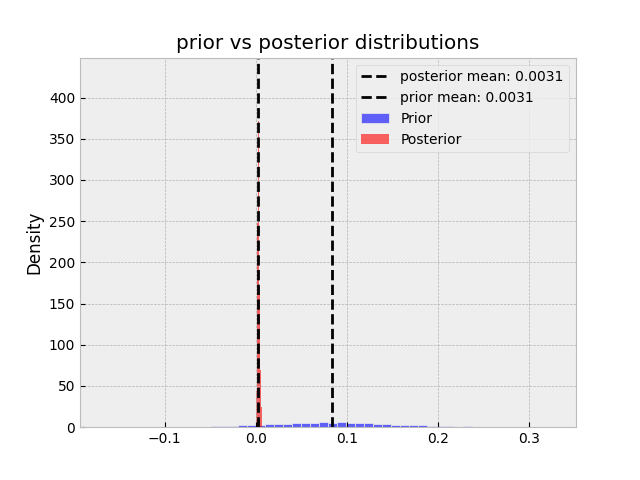
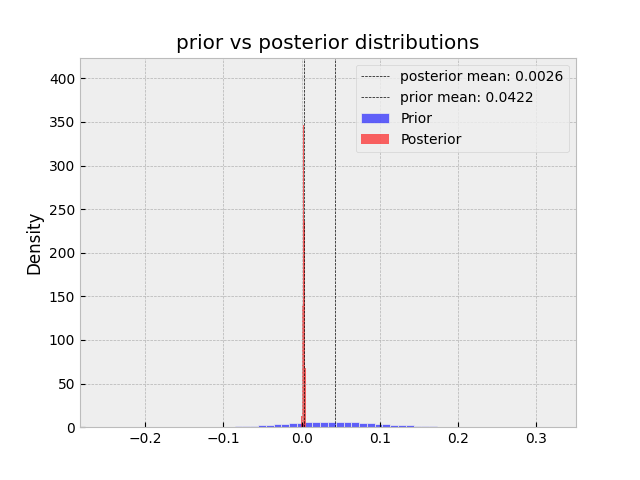
add plots for graph

diff --git a/linear_algo_run.py b/linear_algo_run.py
@@ -20,7 +20,7 @@ from models import bayes_linreg_model
 plt.style.use('bmh')
 
 df = pd.read_csv('data/data.csv', sep=';', index_col=0)
-df = df[['date','year','month','week','day_of_week','dayofyear','media_cost_adstock','jackpot_size','sales']]
+df = df[['date','year','month','week','day_of_week','dayofyear','media_cost','jackpot_size','sales']]
 
 print("data head")
 print(df.head())
@@ -37,19 +37,19 @@ rng_key = jax.random.PRNGKey(0)
 print("")
 print("Starting the MCMC")
 print("-----------------")
-mcmc.run(jax.random.PRNGKey(0),jackpot_category=jnp.array(df_train['jackpot_size']),spends=jnp.array(df_train['media_cost_adstock']),sales=jnp.array(df_train['sales']),dayofyear=jnp.array(df_train['dayofyear']),index=jnp.array(df_train.index))
+mcmc.run(jax.random.PRNGKey(0),jackpot_category=jnp.array(df_train['jackpot_size']),spends=jnp.array(df_train['media_cost']),sales=jnp.array(df_train['sales']),dayofyear=jnp.array(df_train['dayofyear']),index=jnp.array(df_train.index))
 linreg_sample=mcmc.get_samples()
 mcmc.print_summary(exclude_deterministic=True)
 # Do some forecasting
 sales_test = df_test["sales"].values
 #TODO: Check again the predictions -dict mean and sales, what is the shapes of those?
 predictive = Predictive(bayes_linreg_model, linreg_sample)
-predictions = predictive(jax.random.PRNGKey(1),jackpot_category=jnp.array(df_test['jackpot_size']),spends=jnp.array(df_test['media_cost_adstock']),sales=jnp.array(df_test['sales']),dayofyear=jnp.array(df_test['dayofyear']),index=jnp.array(df_test.index))
+predictions = predictive(jax.random.PRNGKey(1),jackpot_category=jnp.array(df_test['jackpot_size']),spends=jnp.array(df_test['media_cost']),sales=jnp.array(df_test['sales']),dayofyear=jnp.array(df_test['dayofyear']),index=jnp.array(df_test.index))
 
 y_pred = jnp.mean(predictions["sales"], axis=0)
 
-print("mean:" +str(jnp.mean(df_test['media_cost_adstock'].values)/1000))
-print("std:" +str(jnp.std(df_test['media_cost_adstock'].values)/1000))
+print("mean:" +str(jnp.mean(df_test['media_cost'].values)/1000))
+print("std:" +str(jnp.std(df_test['media_cost'].values)/1000))
 
 
 absolute_errors = jnp.abs(y_pred - sales_test)
@@ -101,11 +101,11 @@ plt.savefig("results/posterior_of_jackpot_coef.png")
 
 # Plot prior vs posterior plots in the same histogram
 fig, ax = plt.subplots()
-coef_prior= np.random.normal(jnp.mean(jnp.array(df_test['media_cost_adstock'].values)/1000), jnp.std(jnp.array(df_test['media_cost_adstock'].values)/500), coef_spends.shape[0])
+coef_prior= np.random.normal(jnp.mean(jnp.array(df_test['media_cost'].values)/1000), jnp.std(jnp.array(df_test['media_cost'].values)/500), 200_000)
 sns.histplot(data=coef_prior, stat="density",color='blue', label='Prior', alpha=0.6,binwidth=1e-2)
 sns.histplot(data=coef_spends, stat="density",color='red', label = 'Posterior', alpha=0.6, binwidth=1e-4)
-ax.axvline(jnp.mean(coef_spends), color='black', linestyle='--', label=f'posterior mean: {jnp.mean(coef_spends):.4f}')
-ax.axvline(jnp.mean(jnp.array(df_test['media_cost_adstock'].values)/1000), color='black', linestyle='--', label=f'prior mean: {jnp.mean(coef_spends):.4f}')
+ax.axvline(jnp.mean(coef_spends), color='black', linestyle='--', label=f'posterior mean: {jnp.mean(coef_spends):.4f}', linewidth=0.5)
+ax.axvline(jnp.mean(coef_prior), color='black', linestyle='--', label=f'prior mean: {jnp.mean(coef_prior):.4f}', linewidth = 0.5)
 ax.legend(loc='best')
 ax.set(title = 'prior vs posterior distributions')
 plt.savefig("results/prior_vs_posterior_of_media_coef.png")

diff --git a/confounder_model.py b/confounder_model.py
@@ -1,0 +1,60 @@
+import pandas as pd
+import numpy as np
+import pandas as pd
+import seaborn as sns
+import matplotlib.pyplot as plt
+import jax.numpy as jnp
+import os
+import jax
+from configs import config
+from dowhy import CausalModel
+import numpyro
+devices = config.devices
+
+
+causal_graph = """
+graph [
+    directed 1
+
+    node [
+    id seasonality
+    label "seasonality
+    ]
+    node [
+    id trend
+    label "trend"
+    ]
+    node [
+    id jackpot_size
+    label "jackpot size"
+    ]
+    node [
+    id media_cost
+    label "media cost"
+    ]
+    node [
+    id sales
+    label "sales"
+    ]
+    edge [
+    source jackpot size
+    target media cost
+    ]
+    edge [
+    source media cost
+    target sales
+    ]
+    edge [
+    source trend
+    target sales
+    ]
+    edge [
+    source seasonality
+    target sales
+    ]
+    edge [
+    source jackpot size
+    target sales
+    ]
+]
+"""

diff --git a/models/linalgo_model.py b/models/linalgo_model.py
@@ -47,10 +47,10 @@ def bayes_linreg_model(jackpot_category,spends, sales, dayofyear, index):
 
     # Seasonality (using day_of_year as a categorical variable)
     n_days = 366  # Maximum possible days in a year
-    with plate("day_of_year_plate", n_days):
-        day_of_year_effect = numpyro.sample("day_of_year_effect", dist.Normal(0, 1))  # Seasonality effect for each day
-
-    seasonality = day_of_year_effect[dayofyear -1]  # dayofyear is 1-indexed, so we adjust
+    with plate("day_of_year_plate", n_days):  # Plate goes outside
+        day_of_year_effect = numpyro.sample("day_of_year_effect", dist.Normal(0, 1))
+    seasonality = day_of_year_effect[dayofyear - 1]
+     # dayofyear is 1-indexed, so we adjust
 
     # Coefficiency spends prior
     coef_spends = numpyro.sample('coef_spends', dist.Normal(jnp.mean(spends)/1000,jnp.std(spends)/500))

diff --git a/graphplot.py b/graphplot.py
@@ -1,0 +1,17 @@
+import graphviz as gr
+import matplotlib.pyplot as plt
+
+
+g = gr.Digraph()
+g.node(name="seasonality",color= "gainsboro",  label="seasonality", style="filled")
+g.node(name="trend", color= "gainsboro", label="trend", style='filled')
+g.node(name="media", label="media", color="forestgreen", style="filled")
+g.node(name="jackpot", label="jackpot", color="firebrick3", style="filled")
+g.node(name="sales", color= "gold",label="sales", style="filled")
+g.edge(tail_name="jackpot", head_name="media")
+g.edge(tail_name="jackpot", head_name="sales")
+g.edge(tail_name="media", head_name="sales")
+g.edge(tail_name="seasonality", head_name="sales")
+g.edge(tail_name="trend", head_name="sales")
+g.format = "png"
+g.render("models/causal_graph")

diff --git a/README.md b/README.md
@@ -3,10 +3,16 @@ marketing media mix modelling with data generation and bayesian hierarchical str
 
 ## First things first
 
+You should use a virtual environment with python version 3.11.
+Install python packages using
+```
+pip install -r requirements.txt
+```
+
 from configs.py you can set available devices for the jax.
 
 ## Data generation
-Generate suitable data for yourself pyr modifying the gendata.py accordingly and running
+Generate suitable data for yourself by modifying the gendata.py accordingly and running
 ```
 python gendata.py
 ```
